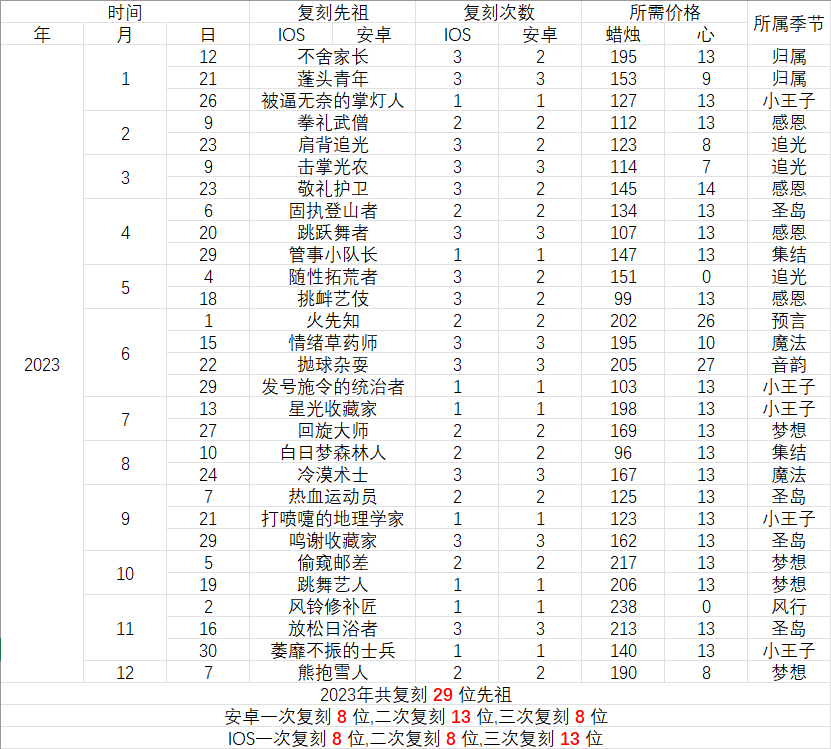
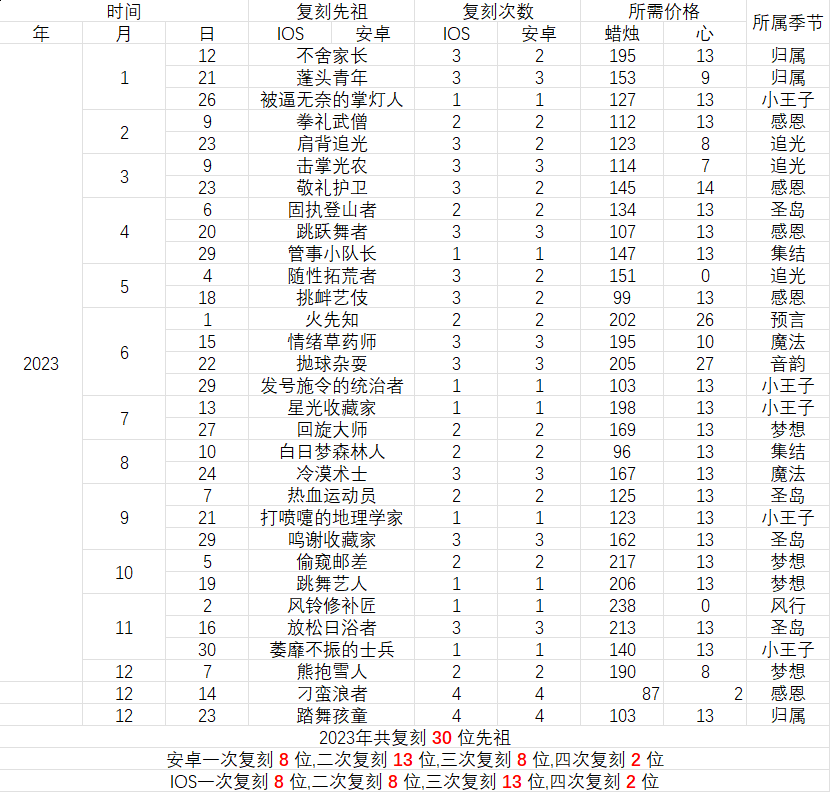
* 2023/12/25

diff --git a/apps/「光遇」先祖多久未复刻查询.js b/apps/「光遇」先祖多久未复刻查询.js
@@ -1,82 +1,3 @@
-const 感恩 = [
-  { name: '刁蛮浪者', date: new Date('2021-11-08') },
-  { name: '挑衅艺伎', date: new Date('2023-05-22') },
-  { name: '敬礼护卫', date: new Date('2023-03-27') },
-  { name: '舒展大师', date: new Date('2021-11-22') },
-  { name: '跳跃舞者', date: new Date('2023-04-24') },
-  { name: '拳礼武僧', date: new Date('2023-02-13') }
-];
-const 追光 = [
-  { name: '随性拓荒者', date: new Date('2023-05-08') },
-  { name: '击掌光农', date: new Date('2023-03-13') },
-  { name: '肩背追光', date: new Date('2023-02-27') },
-  { name: '静光学者', date: new Date('2022-04-11') },
-  { name: '螺旋舞冠', date: new Date('2021-05-10') },
-  { name: '蟹语者', date: new Date('2022-05-09') }
-];
-const 归属 = [
-  { name: '蓬头青年', date: new Date('2023-01-25') },
-  { name: '不舍家长', date: new Date('2023-01-17') },
-  { name: '踏舞孩童', date: new Date('2022-12-28') },
-  { name: '彩纸表亲', date: new Date('2022-10-05') },
-  { name: '火花家长', date: new Date('2022-01-31') },
-  { name: '智慧长者', date: new Date('2021-12-29') }
-];
-const 音韵 = [
-  { name: '致敬钢琴家', date: new Date('2022-03-28') },
-  { name: '迎宾侍者', date: new Date('2022-05-23') },
-  { name: '献情演员', date: new Date('2022-08-16') },
-  { name: '抛球杂耍', date: new Date('2023-06-26') },
-  { name: '沉思编导', date: new Date('2022-09-27') },
-  { name: '旋转舞者', date: new Date('2022-10-10') }
-];
-const 魔法 = [
-  { name: '稻草人农夫', date: new Date('2022-08-29') },
-  { name: '赞许壁画及', date: new Date('2022-06-21') },
-  { name: '情绪草药师', date: new Date('2023-06-19') },
-  { name: '瞌睡木匠', date: new Date('2022-12-07') },
-  { name: '冷漠术士', date: new Date('2023-08-28') },
-  { name: '蟹舞者', date: new Date('2021-04-12') }
-];
-const 圣岛 = [
-  { name: '放松日浴者', date: new Date('2023-11-20') },
-  { name: '鸣谢收藏家', date: new Date('2023-10-03') },
-  { name: '固执登山者', date: new Date('2023-04-10') },
-  { name: '热血运动员', date: new Date('2023-09-11') },
-  { name: '内秀书虫', date: new Date('2022-10-25') },
-  { name: '母语者', date: new Date('2022-08-01') }
-];
-const 预言 = [
-  { name: '水先知', date: new Date('2022-12-19') },
-  { name: '土先知', date: new Date('2021-12-06') },
-  { name: '风先知', date: new Date('2021-09-13') },
-  { name: '火先知', date: new Date('2023-06-05') }
-];
-const 梦想 = [
-  { name: '偷窥邮差', date: new Date('2023-10-09') },
-  { name: '熊抱雪人', date: new Date('2022-02-28') },
-  { name: '回旋大师', date: new Date('2023-07-31') },
-  { name: '跳舞艺人', date: new Date('2023-10-23') }
-];
-const 集结 = [
-  { name: '白日梦森林人', date: new Date('2023-08-14') },
-  //{ name: '茫然植物学生', date: new Date('')},
-  { name: '正步冒险家', date: new Date('2022-07-19') },
-  //{ name: '傻笑童子军', date: new Date('')},
-  { name: '管事小队长', date: new Date('2023-05-03') },
-  { name: '胆小鬼学员', date: new Date('2022-12-05') }
-];
-const 小王子 = [
-  { name: '沾沾自喜的自恋狂', date: new Date('2023-01-02') },
-  { name: '发号施令的统治者', date: new Date('2023-07-03') },
-  { name: '打喷嚏的地理学家', date: new Date('2023-09-25') },
-  //{ name: '被逼无奈的掌灯人', date: new Date('')},
-  { name: '萎靡不振的士兵', date: new Date('2023-01-30') },
-  { name: '星光收藏家', date: new Date('2023-07-17') }
-];
-const 风行 = [
-  { name: '风铃修补匠', date: new Date('2023-11-06') }
-];
 export class 光遇_先祖多久未复刻查询 extends plugin {
   constructor() {
     super({
@@ -85,161 +6,109 @@ export class 光遇_先祖多久未复刻查询 extends plugin {
       priority: 5000,
       rule: [
         {
-          reg: /^(#|\/)?感恩季多久未复刻$/,
-          fnc: 'sky_感恩'
-        }, {
-          reg: /^(#|\/)?追光季多久未复刻$/,
-          fnc: 'sky_追光'
-        }, {
-          reg: /^(#|\/)?归属季多久未复刻$/,
-          fnc: 'sky_归属'
-        }, {
-          reg: /^(#|\/)?(音韵|凌冬)季多久未复刻$/,
-          fnc: 'sky_音韵'
-        }, {
-          reg: /^(#|\/)?魔法季多久未复刻$/,
-          fnc: 'sky_魔法'
-        }, {
-          reg: /^(#|\/)?圣岛季多久未复刻/,
-          fnc: 'sky_圣岛'
-        }, {
-          reg: /^(#|\/)?预言季多久未复刻$/,
-          fnc: 'sky_预言'
-        }, {
-          reg: /^(#|\/)?梦想季多久未复刻$/,
-          fnc: 'sky_梦想'
-        }, {
-          reg: /^(#|\/)?集结季多久未复刻$/,
-          fnc: 'sky_集结'
-        }, {
-          reg: /^(#|\/)?小王子季多久未复刻$/,
-          fnc: 'sky_小王子'
-        }, {
-          reg: /^(#|\/)?风行季多久未复刻$/,
-          fnc: 'sky_风行'
+          reg: /^(#|\/)?(.*)季多久未复刻$/,
+          fnc: 'snrd'
         }
       ]
     })
   }
-  async sky_感恩(e) {
-    let msg = '感恩季数据更新时间：2023-05-16\n';
-    const today = new Date();
 
-    for (const role of 感恩) {
-      const timeDiff = today.getTime() - role.date.getTime();
-      const dayDiff = Math.floor(timeDiff / (1000 * 60 * 60 * 24)).toString().padStart(3, '0');
-      msg += `${role.name}已[ ${dayDiff} ]天！未复刻\n`;
-    }
-    await e.reply(msg.trim());
+  getDayDiff(date) {
+    const today = new Date()
+    const timeDiff = today.getTime() - date.getTime()
+    return Math.floor(timeDiff / (1000 * 60 * 60 * 24)).toString().padStart(3, '0')
   }
-  async sky_追光(e) {
-    let msg = '追光季数据更新时间：2023-05-02\n';
-    const today = new Date();
 
-    for (const role of 追光) {
-      const timeDiff = today.getTime() - role.date.getTime();
-      const dayDiff = Math.floor(timeDiff / (1000 * 60 * 60 * 24)).toString().padStart(3, '0');
-      msg += `${role.name}已[ ${dayDiff} ]天！未复刻\n`;
+  async snrd(e) {
+    const SEASON_NAME = e.msg.match(/^(#|\/)?(.*)季多久未复刻$/)
+    let msg = '数据更新时间：2023-12-25\n此表不计入集体复刻\n'
+    if (!seasons[SEASON_NAME[2]]) { return e.reply('不存在该季节,请输入以下季节名：\n感恩丨追光丨归属丨音韵\n魔法丨圣岛丨预言丨梦想\n集结丨小王子丨风行') }
+    for (const role of seasons[SEASON_NAME[2]]) {
+      const dayDiff = this.getDayDiff(role.date)
+      msg += `${role.name}已[ ${dayDiff} ]天！未复刻\n`
     }
-    await e.reply(msg.trim());
-  }
-  async sky_归属(e) {
-    let msg = '归属季数据更新时间：2023-04-20\n';
-    const today = new Date();
-
-    for (const role of 归属) {
-      const timeDiff = today.getTime() - role.date.getTime();
-      const dayDiff = Math.floor(timeDiff / (1000 * 60 * 60 * 24)).toString().padStart(3, '0');
-      msg += `${role.name}已[ ${dayDiff} ]天！未复刻\n`;
-    }
-    await e.reply(msg.trim());
-  }
-  async sky_音韵(e) {
-    let msg = '音韵季数据更新时间：2023-04-20\n';
-    const today = new Date();
-
-    for (const role of 音韵) {
-      const timeDiff = today.getTime() - role.date.getTime();
-      const dayDiff = Math.floor(timeDiff / (1000 * 60 * 60 * 24)).toString().padStart(3, '0');
-      msg += `${role.name}已[ ${dayDiff} ]天！未复刻\n`;
-    }
-    await e.reply(msg.trim());
-  }
-  async sky_魔法(e) {
-    let msg = '魔法季数据更新时间：2023-04-20\n';
-    const today = new Date();
-
-    for (const role of 魔法) {
-      const timeDiff = today.getTime() - role.date.getTime();
-      const dayDiff = Math.floor(timeDiff / (1000 * 60 * 60 * 24)).toString().padStart(3, '0');
-      msg += `${role.name}已[ ${dayDiff} ]天！未复刻\n`;
-    }
-    await e.reply(msg.trim());
-  }
-  async sky_圣岛(e) {
-    let msg = '圣岛季数据更新时间：2023-04-20\n';
-    const today = new Date();
-
-    for (const role of 圣岛) {
-      const timeDiff = today.getTime() - role.date.getTime();
-      const dayDiff = Math.floor(timeDiff / (1000 * 60 * 60 * 24)).toString().padStart(3, '0');
-      msg += `${role.name}已[ ${dayDiff} ]天！未复刻\n`;
-    }
-    await e.reply(msg.trim());
-  }
-  async sky_预言(e) {
-    let msg = '预言季数据更新时间：2023-04-20\n';
-    const today = new Date();
-
-    for (const role of 预言) {
-      const timeDiff = today.getTime() - role.date.getTime();
-      const dayDiff = Math.floor(timeDiff / (1000 * 60 * 60 * 24)).toString().padStart(3, '0');
-      msg += `${role.name}已[ ${dayDiff} ]天！未复刻\n`;
-    }
-    await e.reply(msg.trim());
-  }
-  async sky_梦想(e) {
-    let msg = '梦想季数据更新时间：2023-04-20\n';
-    const today = new Date();
-
-    for (const role of 梦想) {
-      const timeDiff = today.getTime() - role.date.getTime();
-      const dayDiff = Math.floor(timeDiff / (1000 * 60 * 60 * 24)).toString().padStart(3, '0');
-      msg += `${role.name}已[ ${dayDiff} ]天！未复刻\n`;
-    }
-    await e.reply(msg.trim());
-  }
-  async sky_集结(e) {
-    let msg = '集结季数据更新时间：2023-04-20\n';
-    const today = new Date();
-
-    for (const role of 集结) {
-      const timeDiff = today.getTime() - role.date.getTime();
-      const dayDiff = Math.floor(timeDiff / (1000 * 60 * 60 * 24)).toString().padStart(3, '0');
-      msg += `${role.name}已[ ${dayDiff} ]天！未复刻\n`;
-    }
-    await e.reply(msg.trim());
-  }
-  async sky_小王子(e) {
-    let msg = '小王子季数据更新时间：2023-04-20\n';
-    const today = new Date();
-
-    for (const role of 小王子) {
-      const timeDiff = today.getTime() - role.date.getTime();
-      const dayDiff = Math.floor(timeDiff / (1000 * 60 * 60 * 24)).toString().padStart(3, '0');
-      msg += `${role.name}已[ ${dayDiff} ]天！未复刻\n`;
-    }
-    await e.reply(msg.trim());
-  }
-  async sky_风行(e) {
-    let msg = '风行季数据更新时间：2023-11-01\n';
-    const today = new Date();
-
-    for (const role of 风行) {
-      const timeDiff = today.getTime() - role.date.getTime();
-      const dayDiff = Math.floor(timeDiff / (1000 * 60 * 60 * 24)).toString().padStart(3, '0');
-      msg += `${role.name}已[ ${dayDiff} ]天！未复刻\n`;
-    }
-    await e.reply(msg.trim());
+    return e.reply(msg.trim());
   }
 }
+
+const seasons = {
+  '感恩': [
+    { name: '刁蛮浪者', date: new Date('2023-12-18') },
+    { name: '挑衅艺伎', date: new Date('2023-05-22') },
+    { name: '敬礼护卫', date: new Date('2023-03-27') },
+    { name: '舒展大师', date: new Date('2021-11-22') },
+    { name: '跳跃舞者', date: new Date('2023-04-24') },
+    { name: '拳礼武僧', date: new Date('2023-02-13') }
+  ],
+  '追光': [
+    { name: '随性拓荒者', date: new Date('2023-05-08') },
+    { name: '击掌光农', date: new Date('2023-03-13') },
+    { name: '肩背追光', date: new Date('2023-02-27') },
+    { name: '静光学者', date: new Date('2022-04-11') },
+    { name: '螺旋舞冠', date: new Date('2021-05-10') },
+    { name: '蟹语者', date: new Date('2022-05-09') }
+  ],
+  '归属': [
+    { name: '蓬头青年', date: new Date('2023-01-25') },
+    { name: '不舍家长', date: new Date('2023-01-17') },
+    { name: '踏舞孩童', date: new Date('2023-12-27') },
+    { name: '彩纸表亲', date: new Date('2022-10-05') },
+    { name: '火花家长', date: new Date('2022-01-31') },
+    { name: '智慧长者', date: new Date('2021-12-29') }
+  ],
+  '音韵': [
+    { name: '致敬钢琴家', date: new Date('2022-03-28') },
+    { name: '迎宾侍者', date: new Date('2022-05-23') },
+    { name: '献情演员', date: new Date('2022-08-16') },
+    { name: '抛球杂耍', date: new Date('2023-06-26') },
+    { name: '沉思编导', date: new Date('2022-09-27') },
+    { name: '旋转舞者', date: new Date('2022-10-10') }
+  ],
+  '魔法': [
+    { name: '稻草人农夫', date: new Date('2022-08-29') },
+    { name: '赞许壁画及', date: new Date('2022-06-21') },
+    { name: '情绪草药师', date: new Date('2023-06-19') },
+    { name: '瞌睡木匠', date: new Date('2022-12-07') },
+    { name: '冷漠术士', date: new Date('2023-08-28') },
+    { name: '蟹舞者', date: new Date('2021-04-12') }
+  ],
+  '圣岛': [
+    { name: '放松日浴者', date: new Date('2023-11-20') },
+    { name: '鸣谢收藏家', date: new Date('2023-10-03') },
+    { name: '固执登山者', date: new Date('2023-04-10') },
+    { name: '热血运动员', date: new Date('2023-09-11') },
+    { name: '内秀书虫', date: new Date('2022-10-25') },
+    { name: '母语者', date: new Date('2022-08-01') }
+  ],
+  '预言': [
+    { name: '水先知', date: new Date('2022-12-19') },
+    { name: '土先知', date: new Date('2021-12-06') },
+    { name: '风先知', date: new Date('2021-09-13') },
+    { name: '火先知', date: new Date('2023-06-05') }
+  ],
+  '梦想': [
+    { name: '偷窥邮差', date: new Date('2023-10-09') },
+    { name: '熊抱雪人', date: new Date('2023-12-11') },
+    { name: '回旋大师', date: new Date('2023-07-31') },
+    { name: '跳舞艺人', date: new Date('2023-10-23') }
+  ],
+  '集结': [
+    { name: '白日梦森林人', date: new Date('2023-08-14') },
+    //{ name: '茫然植物学生', date: new Date('')},
+    { name: '正步冒险家', date: new Date('2022-07-19') },
+    //{ name: '傻笑童子军', date: new Date('')},
+    { name: '管事小队长', date: new Date('2023-05-03') },
+    { name: '胆小鬼学员', date: new Date('2022-12-05') }
+  ],
+  '小王子': [
+    { name: '沾沾自喜的自恋狂', date: new Date('2023-01-02') },
+    { name: '发号施令的统治者', date: new Date('2023-07-03') },
+    { name: '打喷嚏的地理学家', date: new Date('2023-09-25') },
+    //{ name: '被逼无奈的掌灯人', date: new Date('')},
+    { name: '萎靡不振的士兵', date: new Date('2023-01-30') },
+    { name: '星光收藏家', date: new Date('2023-07-17') }
+  ],
+  '风行': [
+    { name: '风铃修补匠', date: new Date('2023-12-04') }
+  ]
+};
